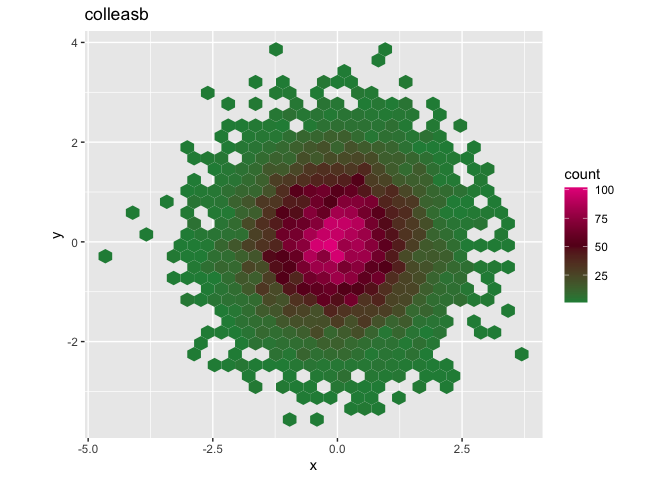
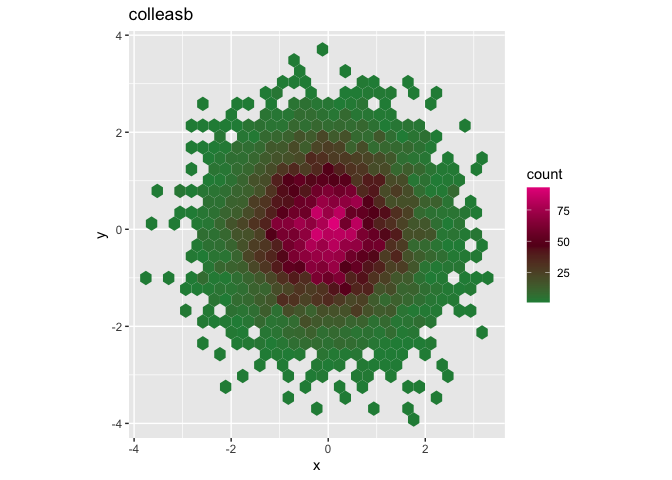
update readme

Changed region(s): [[0.0938, 0.0, 0.9062, 0.9688], [0.3125, 0.9062, 0.3438, 0.9375], [0.0625, 0.4688, 0.0938, 0.5]]

diff --git a/README.md b/README.md
@@ -28,12 +28,12 @@ library(nic)
 ## basic example code
 library(palmerpenguins)
 library(tidyverse)
-#> ── Attaching packages ─── tidyverse 1.3.0 ──
+#> ── Attaching packages ────────────────────
 #> ✓ ggplot2 3.3.2     ✓ purrr   0.3.4
 #> ✓ tibble  3.0.3     ✓ dplyr   1.0.2
 #> ✓ tidyr   1.1.2     ✓ stringr 1.4.0
 #> ✓ readr   1.3.1     ✓ forcats 0.5.0
-#> ── Conflicts ────── tidyverse_conflicts() ──
+#> ── Conflicts ──── tidyverse_conflicts() ──
 #> x dplyr::filter() masks stats::filter()
 #> x dplyr::lag()    masks stats::lag()
 ggplot(data = penguins, 
@@ -53,3 +53,26 @@ ggplot(data = penguins,
 ```
 
 <img src="man/figures/README-unnamed-chunk-3-1.png" width="100%" />
+
+``` r
+pal=nic_palette("colleasb",3)
+ggplot(data.frame(x = rnorm(1e4), y = rnorm(1e4)), aes(x = x, y = y)) +
+  geom_hex() +
+  coord_fixed() +
+  scale_fill_gradientn(colours = pal) + ggtitle("colleasb")
+```
+
+<img src="man/figures/README-unnamed-chunk-4-1.png" width="100%" />
+
+``` r
+pal <- nic_palette("colleasb",2)
+penguins2 <- penguins %>% drop_na()
+ggplot(data = penguins2, 
+       aes(y = flipper_length_mm,
+           x = sex,
+           fill=sex)) +
+  geom_boxplot() +
+  scale_fill_manual(values = pal) + ggtitle("colleasa")
+```
+
+<img src="man/figures/README-unnamed-chunk-5-1.png" width="100%" />
